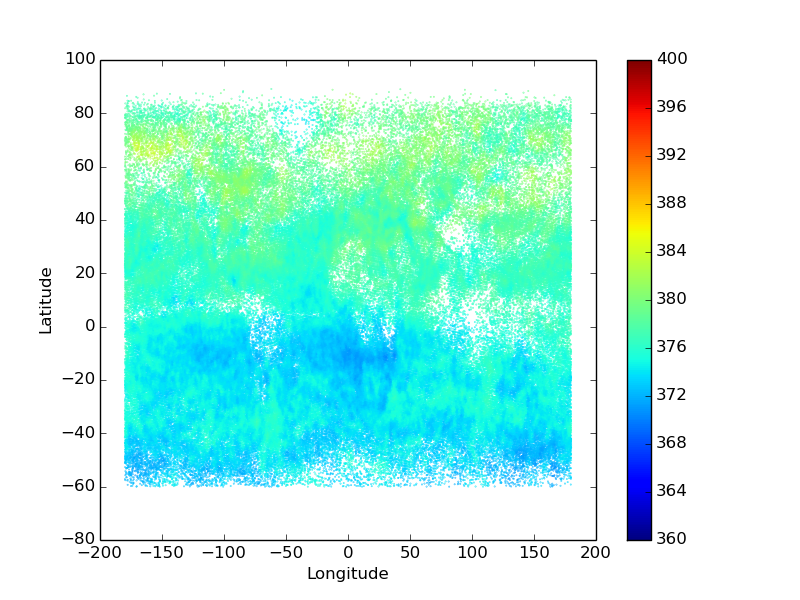
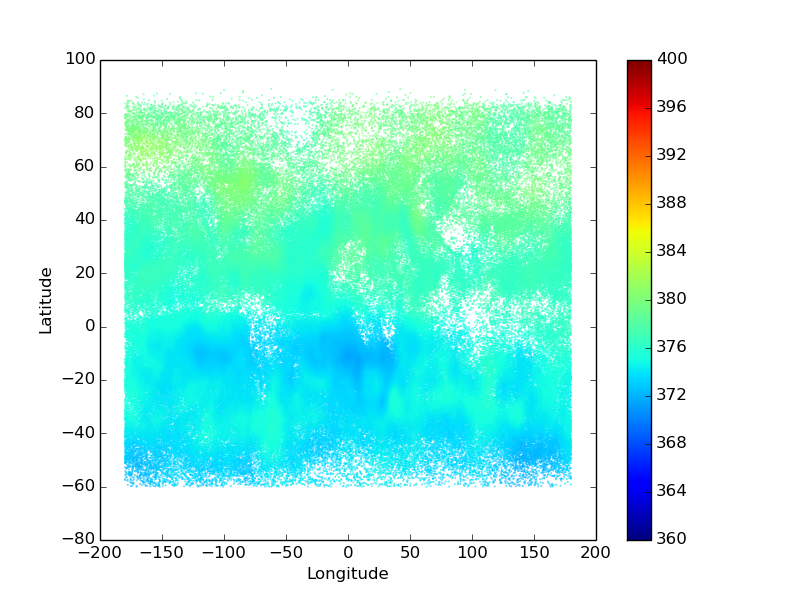
fixed plot

diff --git a/week8/spatial_smoothing.py b/week8/spatial_smoothing.py
@@ -49,12 +49,12 @@ days = dataSet["day"].values
 
 #Perform kernel density estimation for several weighting functions. Time the results
 time0 = time.time()
-y_gaus = calc_gaussian(lon, lat, y, 5)
+#y_gaus = calc_gaussian(lon, lat, y, 5)
 
 time1 = time.time()
-y_linear_1 = calc_linear(S, y, 1, 50)
-y_linear_5 = calc_linear(S, y, 5, 50)
-y_linear_20 = calc_linear(S, y, 20, 50)
+#y_linear_1 = calc_linear(S, y, 1, 50)
+#y_linear_5 = calc_linear(S, y, 5, 100)
+y_linear_20 = calc_linear(S, y, 50, 500)
 
 time2 = time.time()
 #y_linear_500 = calc_linear(S, y, 5, 500)
@@ -67,9 +67,9 @@ print "Linear time 500: "+str(time3-time2)
 
 #Plot the results for each algorithm
 plot_result(y, "unsmoothed", 1)
-plot_result(y_gaus, "gaussian", 2)
+#plot_result(y_gaus, "gaussian", 2)
 #plot_result(y_linear_1, "sparse_1", 3)
 #plot_result(y_linear_5, "sparse_5", 4)
-#plot_result(y_linear_20, "sparse_20", 5)
+plot_result(y_linear_20, "sparse_50", 5)
 
 
